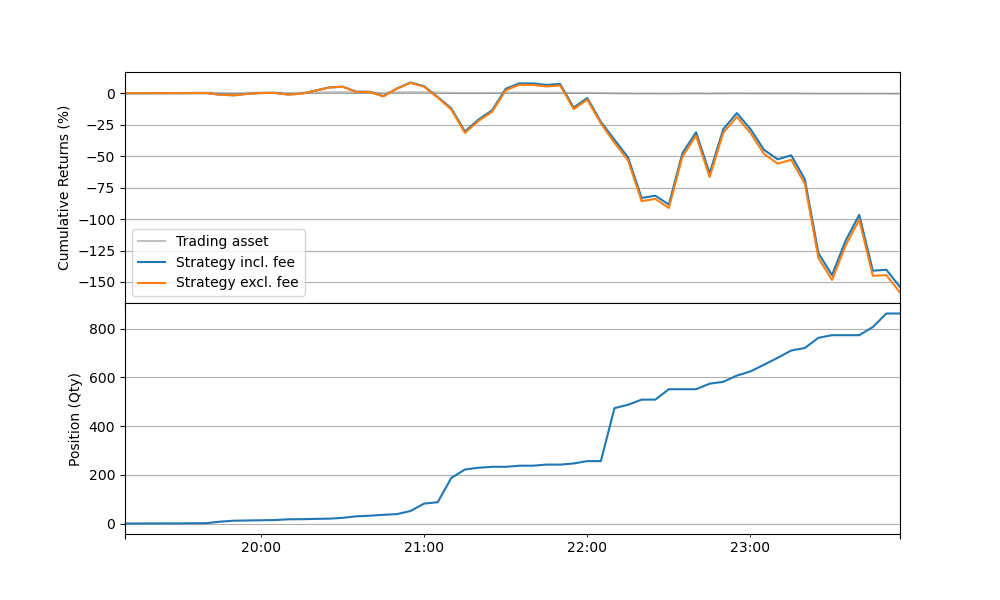
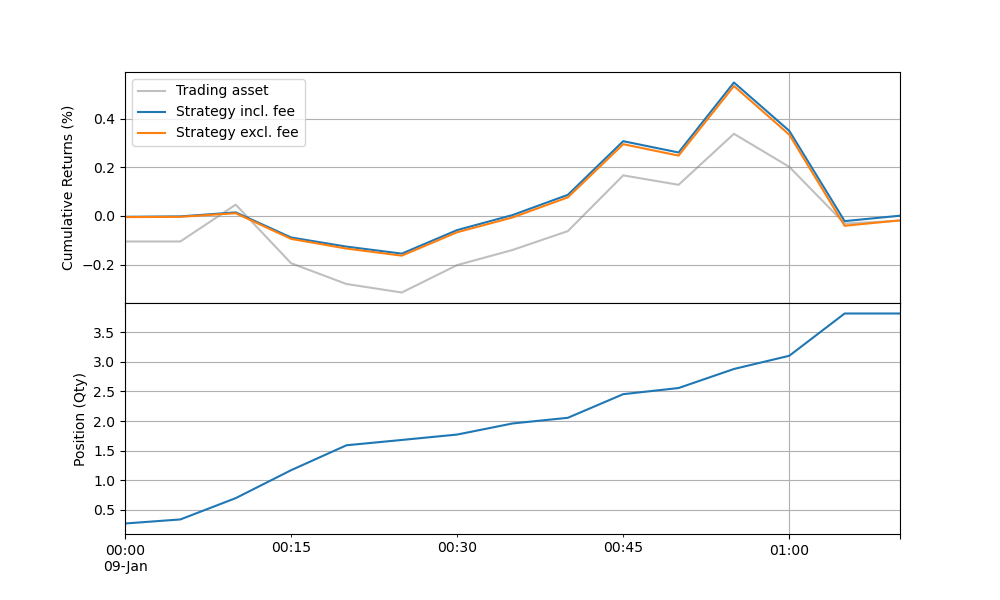
bug fixes

diff --git a/mmtester/multi_mm_strategy.py b/mmtester/multi_mm_strategy.py
@@ -16,7 +16,6 @@ class MultiMMStrategy(exchange.BaseStrategy):
         self.spot_position: position.Position = position.Position(spot_balance, self.spot_instr, length)
         self.future_position: position.Position = position.Position(spot_balance, self.future_instr, length)
         self.requote: bool = True
-        self.curr_step = 0
 
 
     def on_cancel(self, order: order.Order):
@@ -41,11 +40,9 @@ class MultiMMStrategy(exchange.BaseStrategy):
         if record is not None:
             if record.counter > 0 and (record.counter  % self.frequency == 0 or self.requote):
                 self.exchange.cancel_all(record.timestamp, self.name)
-                self.quoter.delta_q = -1 + self.spot_position.total_qty
-                self.quoter.delta_q /= (self.spot_position.initial_balance * self.max_leverage) 
-                self.quoter.spot_q = 1 - self.spot_position.total_qty
-                self.quoter.spot_q /= (self.spot_position.initial_balance * self.max_leverage)
-                self.quoter.tau = ((self.curr_step * self.frequency * self.data_frequency) % (self.total_time * 1000)) 
+                self.quoter.delta_q = -1 - self.future_position.total_qty / (self.future_position.initial_balance * self.max_leverage) 
+                self.quoter.spot_q = 1 - self.spot_position.total_qty / (self.spot_position.initial_balance * self.max_leverage)
+                self.quoter.tau = (record.counter * self.data_frequency) % (self.total_time * 1000)
                 self.quoter.tau /= (self.total_time * 1000)
                 self.quoter.tau = 1 - self.quoter.tau
 
@@ -57,4 +54,3 @@ class MultiMMStrategy(exchange.BaseStrategy):
                 self.requote = False
             self.spot_position.record(record)
             self.future_position.record(record)
-            self.curr_step += 1

diff --git a/sample.py b/sample.py
@@ -7,7 +7,7 @@ from mmtester.inverse_instrument import InverseInstrument
 from mmtester.data import Data
 
 if __name__ == '__main__':
-    df = pd.read_csv("./mmtester/data_generator/data/data.csv.gz", header=0, index_col=0, parse_dates=[0]).iloc[36000*24*3:]
+    df = pd.read_csv("./mmtester/data_generator/data/data.csv.gz", header=0, index_col=0, parse_dates=[0]).iloc[:36000]
     exch = Exchange(500, 500)
     spot_instr = InverseInstrument("perp", 0.000, 0.0005)
     future_instr = InverseInstrument("future", -0.0001, 0.0005)
@@ -35,7 +35,7 @@ if __name__ == '__main__':
                           future_q_skew=1,
                           tick_size=0.05,
                           lot_size=0.001,
-                          max_quote_size=0.1)
+                          max_quote_size=1)
                           
     strategy = MultiMMStrategy("test_strategy", quoter, 2, 1, spot_instr, future_instr, 360, 200, df.shape[0])
     exch.register(strategy)

diff --git a/mmtester/dual_as_quoter.py b/mmtester/dual_as_quoter.py
@@ -45,8 +45,8 @@ class DualASQuoter():
 
     def quote(self, timestamp: pd.DatetimeIndex, strategy: exchange.BaseStrategy, 
               spot_price: float, future_price: float)-> Tuple[List[order.Order], List[order.Order]]:
-        spot_reserve_price = spot_price - self.spot_q_skew * self.spot_q * self.gamma * (self.sigma**2) * self.tau
-        future_reserve_price = future_price - self.future_q_skew * self.delta_q * self.gamma * (self.sigma**2) * self.tau
+        spot_reserve_price = spot_price + self.spot_q_skew * self.spot_q * self.gamma * (self.sigma**2) * self.tau
+        future_reserve_price = future_price + self.future_q_skew * self.delta_q * self.gamma * (self.sigma**2) * self.tau
         spread = self.gamma * (self.sigma**2) * self.tau + (2.0 / self.gamma) * math.log(1 + self.gamma / self.kappa)
         return self.compute(timestamp, strategy, spot_reserve_price, future_reserve_price, spread)
 
